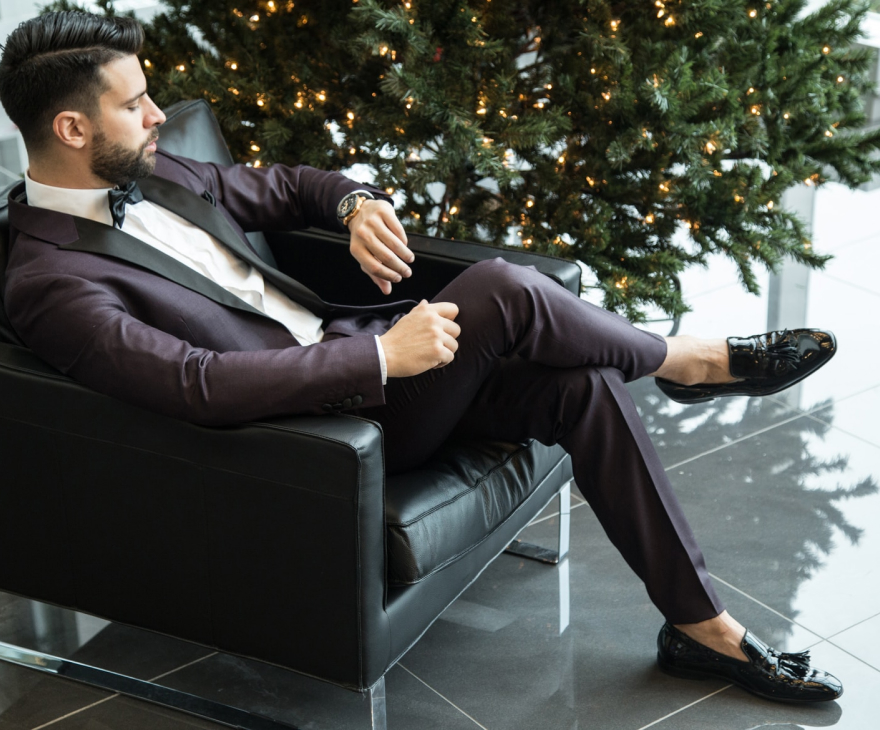
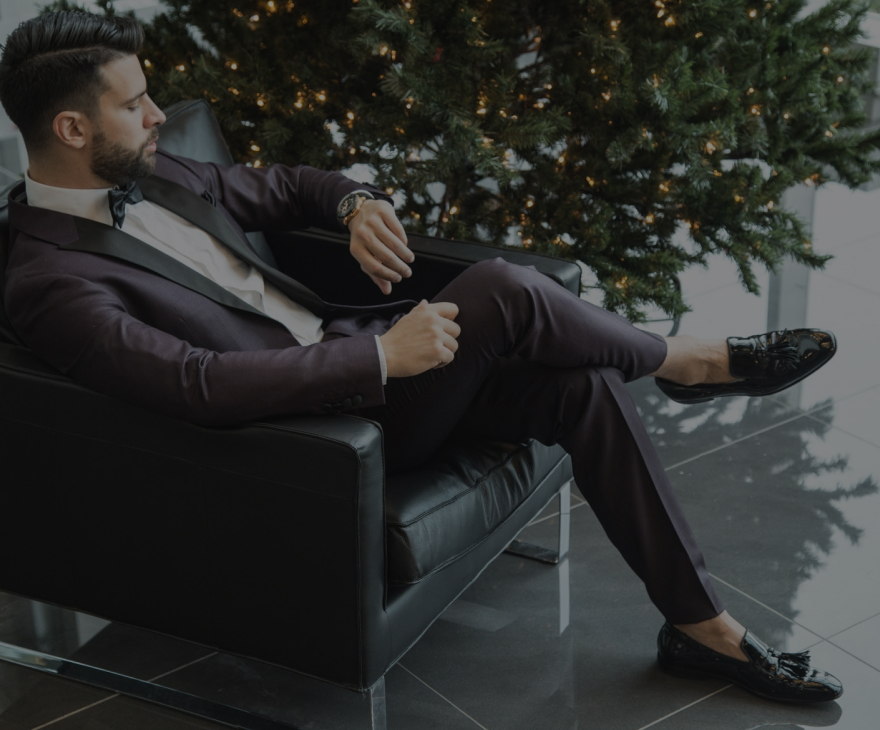
ll

diff --git a/css/style.css b/css/style.css
@@ -9,20 +9,28 @@
 
 *{
     box-sizing: border-box;
-    max-width: 100vw;
+    
     margin: 0;
     padding: 0;
+    
+    
+}
+body,
+html {
+    background-color: #000000;
+    height: 100%;
+    
 }
 
 .top_line{
-    width: 1920px;
+    width: 100vw;
     height: 44px;
     justify-content: space-between;
     align-items: center;
     display: flex;
 }
 .top_line-menu-background{
-    width: 100%;
+    width: 100vw;
     height: 44px;
     background: #000000;
     filter: drop-shadow(0px 4px 4px rgba(0, 0, 0, 0.25));
@@ -30,7 +38,7 @@
 }
 .top_line-menu{
     display: block;
-    width: 1100px;
+    max-width: 1100px;
     height: 44px;
     margin: 0 auto;
 }
@@ -141,7 +149,7 @@
 }
 .menu_list-background{
     position: absolute; 
-    width: 1920px;
+    width: 100vw;
     height: 80px;
     left: 0px;
     top: 44px;
@@ -154,7 +162,7 @@
 .menu__list{
     list-style: none;
     display: flex;
-    width: 1100px;
+    max-width: 1100px;
 }
 .menu__list-item1 {
     margin-left: 4px;
@@ -301,9 +309,9 @@
     padding-right: 30px;
 }
 .second_screen{
-    width: 99%;
+    width: 100vw;
     height: 730px;
-    position: absolute;
+    /* position: absolute; */
     left: 0px;
     top: 934px;
     display: inline-block;
@@ -427,27 +435,20 @@
     
 } 
 .background-2-img{
-    position: absolute;
+    position: relative;
     top: 0;
-    left: -2px;
-    width: 102%;
+    
+    width: 100%;
     height: 730px;
 } 
-.background-2-img-filter{
-    z-index: 5;
-    position: absolute;
-    top: 0;
-    left: -2px;
-    width: 102%;
-    height: 100%;
-    background: linear-gradient(0deg, rgba(15, 15, 15, 0.5), rgba(15, 15, 15, 0.5));
-}
+
 .new_collection-title{
-    position: relative;
+    position: absolute;
     display: block;
-    margin-top: 65%;
-    margin-left: 33%;
-    margin-right: 33%;
+    left: 20%;
+    right: 20%;
+    top: 50%;
+    margin: 0 auto;
     font-family: Playfair Display;
     font-style: normal;
     font-weight: bold;
@@ -496,32 +497,24 @@
 /*collection_2018*/
 
 .collection_2018-section{
-    position: absolute;
-    width: 1920px;
+    /* position: absolute; */
+    width: 100vw;
     height: 600px;
-    left: 0px;
-    top: 1664px;
+    
     display: block;
 }
 .collection_2018-container{
     position: relative;
     width: 45vw;
-    height: 880px;
+    /* height: 880px; */
     float:left;
     
 }
-.collection_2018-background-img-filter{
-    position: absolute;
-    width: 880px;
-    height: 600px;
-    left: 0px;
-    top: 0px;
-    background: linear-gradient(0deg, rgba(15, 15, 15, 0.5), rgba(15, 15, 15, 0.5));
-}
+
 .collection_2018-explanation{
     position: relative;
     width: 54vw;
-    height: 880px;
+    /* height: 880px; */
     float: left;
     display: flex;
 }
@@ -595,16 +588,15 @@
     text-decoration: none;
 }
 .new_goods-section{
-    position: absolute;
-    width: 1920px;
+    /* position: absolute; */
+    width: 100vw;
     height: 1289px;
-    left: 0px;
-    top: 2264px;
+    display: block;
     background-color: black;
 }
 .new_goods-title{
-    width: 440px;
-    height: 48px;
+    padding-top: 120px;
+    padding-bottom: 40px;
     font-family: Playfair Display;
     font-style: normal;
     font-weight: bold;
@@ -613,10 +605,9 @@
     text-align: center;
     text-transform: uppercase;
     color: #FFFFFF;
-    margin-top: 120px;
-    margin-bottom: 40px;
-    margin-left: auto;
-    margin-right: auto;
+    margin: 0 auto;
+    display: block;
+    
 }
 .new_goods-title-line{
     width: 120px;
@@ -632,7 +623,7 @@
     left: 405px; */
     margin-left: auto;
     margin-right: auto;
-    width: 1106px;
+    max-width: 1106px;
     height: 850px;
     /* background-color: aqua; */
 }
@@ -652,11 +643,10 @@
     display: block;
 }
 .our_brands{
-    position: absolute;
-    width: 1920px;
+    position: relative;
+    width: 100vw;
     height: 362px;
-    left: 0px;
-    top: 3553px;
+    display: block;
     background: #0F0F0F;
 }
 .our_brands-title{
@@ -704,21 +694,20 @@
     position: absolute;
     left: 0px;
     top: 0px;
-    width: 1920px;
+    width: 100vw;
     height: 400px;
     overflow: hidden;
     object-fit: cover;
     z-index: -55;
 }
 .footer{
-    position: absolute;
-    width: 1920px;
+    /* position: absolute; */
+    width: 100vw;
     height: 400px;
-    left: 0px;
-    top: 3909px;
+    
     display: flex;
     
-    background-image: url(../images/footer-background.svg);
+    background-image: url(../images/footer-background.jpg);
     background-repeat: no-repeat;
     background-position: top center;
     background-size: cover;
@@ -849,8 +838,8 @@
     margin-left: 0;
 }
 .last_line-container{
-    position: absolute;
-    width: 1920px;
+    /* position: absolute; */
+    width: 100vw;
     height: 50px;
     left: 0px;
     top: 4307px;

diff --git a/index.html b/index.html
@@ -88,7 +88,7 @@
 <!--SECOND_SCREEN-->
 
 <section class="second_screen">
-  <div class="container second_screen-container">
+
     <div class="new_season">
       <div class="new_season-title">
         СЕЗОН 2020/21
@@ -130,19 +130,17 @@
           </div>
     </div>
     </div>
-
-    <div class="new_collection">
-      <div class="background-2-img-filter"></div>
+    <div class="new_collection"> 
       <img src="images/background-2.jpg" alt="background-2" class="background-2-img">
-      
       <div class="new_collection-title">
+        
         Новая коллекция
-      
+      </div>
       <div class="new_collectin-title-line"></div>
       <a href="#" ><button class="catalog_btn">
         каталог
       </button></a>
-    </div>
+    
   </div>
 </section>
 
@@ -304,7 +302,7 @@
 
 <footer class="footer">
   <div class="footer-img-filter">
-  <img src="images/footer-background.jpg" alt="footer-background" class="footer-background-img">
+  <img class="footer-background-img" src="images/footer-background.jpg" alt="footer-background" >
   </div>
   <div class="about_shop">
     <div class="about_shop-title">

diff --git a/css/media.css b/css/media.css
@@ -14,7 +14,11 @@
     margin-left: 45px;
     margin-right: 354px;
 }
-
+@media(max-width:1050px){
+    .our_brands{
+        height: 450px;
+    }
+}
 @media(max-width:1000px){
     .top_line-menu-item-registration{
         padding-left: 400px;
@@ -22,6 +26,7 @@
     .menu__list-item1 { 
         margin-right: 254px;
 }
+
 
 }
 
@@ -92,6 +97,9 @@
     height: 400px;
     transform: translateY(-300%);
 }
+.menu__list.menu__list--active{
+    transform: translateY(0%);
+}
 .menu__list-item1,.menu__list-item2,.menu__list-item3{
     /* display: none; */
     font-family: "PT Sans", sans-serif;
@@ -134,7 +142,10 @@
     width: 570px;
 }
 }
-
+@media(max-width:525px){
+.our_brands{
+    height: 850px;
+}}
 @media(max-width:376px){
     .logo_img{
         max-width: 280px;

diff --git a/js/main.js b/js/main.js
@@ -1,5 +1,5 @@
 $(function(){
-    $('.menu_btn').on('click', function(){
+    $('.menu__btn').on('click', function(){
         $('.menu__list').toggleClass('menu__list--active')
     });
 
